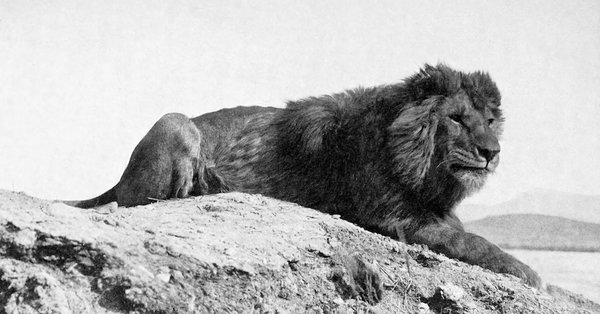
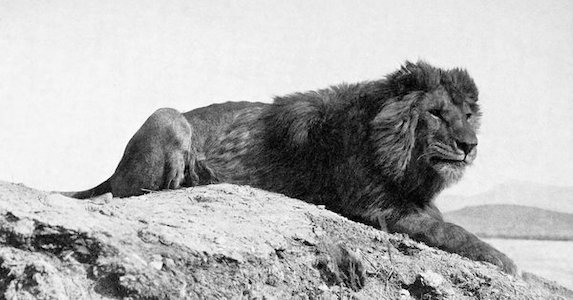
Add facts into carousel and change pictures to the same size pictures

diff --git a/app/src/Hero.js b/app/src/Hero.js
@@ -1,48 +1,48 @@
 import React from 'react';
 import Carousel from 'react-bootstrap/Carousel'
-import theme1 from './images/theme1.jpg' 
-import theme2 from './images/theme2.jpg' 
-import theme3 from './images/theme3.jpg'
+import th1 from './images/th1.jpg' 
+import th2 from './images/th2.jpg'
+import th3 from './images/th3.jpg'  
 
 function Hero() {
   return (
     <div>
       {/* <img src={theme} /> */}
       <Carousel variant="dark">
-        <Carousel.Item>
+        <Carousel.Item className='carousel'>
           <img
             className="d-block w-100"
-            height='600px'
-            src={theme1}
+            src={th1}
             alt="First slide"
           />
           <Carousel.Caption>
-            <h5>First slide label</h5>
-            <p>Nulla vitae elit libero, a pharetra augue mollis interdum.</p>
+            <div className='textbox'>
+              <p>The World Wildlife Organization focuses on saving certain species that help sustain other species. They protect wildlife such as pandas, whales, rhinos, marine turtles, primates, polar bears, and big cats.</p>
+            </div>
           </Carousel.Caption>
         </Carousel.Item>
-        <Carousel.Item>
+        <Carousel.Item className='carousel'>
           <img
             className="d-block w-100"
-            height='600px'
-            src={theme2}
+            src={th2}
             alt="Second slide"
           />
           <Carousel.Caption>
-            <h5>Second slide label</h5>
-            <p>Lorem ipsum dolor sit amet, consectetur adipiscing elit.</p>
+            <div className='textbox'>
+              <p>A species is declared extinct after many years of not being spotted. Because it takes so long to define an entire species as extinct, it is probable that there are many species already gone that we are unaware of.</p>
+            </div>
           </Carousel.Caption>
         </Carousel.Item>
-        <Carousel.Item>
+        <Carousel.Item className='carousel'>
           <img
             className="d-block w-100"
-            height='600px'
-            src={theme3}
+            src={th3}
             alt="Third slide"
           />
           <Carousel.Caption>
-            <h5>Third slide label</h5>
-            <p>Praesent commodo cursus magna, vel scelerisque nisl consectetur.</p>
+            <div className='textbox'>
+              <p>99% of currently threatened species are at risk from human activities, primarily those driving habitat loss, introduction of exotic species, and global warming.</p>
+            </div>
           </Carousel.Caption>
         </Carousel.Item>
       </Carousel>
@@ -52,7 +52,7 @@ function Hero() {
 
 export default Hero;
 
-// theme1 from https://greeniscool.biz/wp-content/uploads/2021/06/what-animals-are-endangered-1024x716.jpg
-// theme2 from https://drb960u7vv58y.cloudfront.net/resize/187946/600/314/image.jpg
-// theme3 from https://images2.minutemediacdn.com/image/upload/c_fill,g_auto,h_1248,w_2220/f_auto,q_auto,w_1100/v1555927862/shape/mentalfloss/3332350-565x566_6.jpg
-// theme4 elephant from https://vetpaw.org/wp-content/uploads/2020/05/vetpaw-news-1080x675.jpg
+// facts from https://www.dosomething.org/us/facts/11-facts-about-endangered-species
+//th1 https://www.google.com/url?sa=i&url=https%3A%2F%2Fwww.nwf.org%2FEducational-Resources%2FWildlife-Guide%2FMammals%2FBlue-Whale&psig=AOvVaw255kb6JnaycJHnLVUVmXrl&ust=1632113202518000&source=images&cd=vfe&ved=0CAkQjRxqFwoTCMizn8-divMCFQAAAAAdAAAAABBC
+//th2 https://www.google.com/url?sa=i&url=https%3A%2F%2Fwww.nwf.org%2FEducational-Resources%2FWildlife-Guide%2FMammals%2FFlorida-Panther&psig=AOvVaw255kb6JnaycJHnLVUVmXrl&ust=1632113202518000&source=images&cd=vfe&ved=0CAkQjRxqFwoTCMizn8-divMCFQAAAAAdAAAAABA9
+//th3 https://www.google.com/url?sa=i&url=https%3A%2F%2Fbristolzoo.org.uk%2Flatest-zoo-news%2Fhow-the-work-of-bristol-zoological-society-is-helping-protect-threatened-species-in-the-zoo-and-around-the-world&psig=AOvVaw255kb6JnaycJHnLVUVmXrl&ust=1632113202518000&source=images&cd=vfe&ved=0CAkQjRxqFwoTCMizn8-divMCFQAAAAAdAAAAABA2

diff --git a/app/src/FilterSort.js b/app/src/FilterSort.js
@@ -1,7 +1,7 @@
 import 'bootstrap/dist/css/bootstrap.min.css';
 
-import { Dropdown, MenuItem, DropdownButton } from "react-bootstrap";
-import React, { useState, useEffect, useCallback } from "react";
+import { Dropdown } from "react-bootstrap";
+import React, { useState } from "react";
 
 function FilterSort({permanentSightings, setSightings}) {
   const [filterNickname, setFilterNickname] = useState('');
@@ -21,11 +21,11 @@ function FilterSort({permanentSightings, setSightings}) {
           <div className='col-sm-3'></div>
           <div className='col-sm-3'>
             <Dropdown>
-              <Dropdown.Toggle variant="success" id="dropdown-basic" className='button'>
+              <Dropdown.Toggle variant="success" id="dropdown-basic" className='button dropdown'>
                 Filter By
               </Dropdown.Toggle>
 
-              <Dropdown.Menu>
+              <Dropdown.Menu className='dropdownMenu'>
                 <Dropdown.Item href="#/action-1">Date</Dropdown.Item>
                 <input placeholder='Nickname' value={filterNickname} onChange= {onChange}></input>
                 <Dropdown.Item href="#/action-3">Location</Dropdown.Item>
@@ -41,8 +41,8 @@ function FilterSort({permanentSightings, setSightings}) {
                 Sort By
               </Dropdown.Toggle>
 
-              <Dropdown.Menu>
-              <Dropdown.Item href="#/action-1">Date</Dropdown.Item>
+              <Dropdown.Menu className='dropdownMenu'>
+                <Dropdown.Item href="#/action-1">Date</Dropdown.Item>
                 <Dropdown.Item href="#/action-2">Nickname</Dropdown.Item>
                 <Dropdown.Item href="#/action-3">Location</Dropdown.Item>
                 <Dropdown.Item href="#/action-1">Health status</Dropdown.Item>

diff --git a/app/src/App.css b/app/src/App.css
@@ -20,10 +20,29 @@ form {
   display: block;
   width: 100%;
 }
+.dropdown:hover .dropdownMenu {
+  display: block;
+}
+.dropdown-menu{
+  margin-top: 0;
+}
+.textbox {
+  border-radius: 30px;
+  background-color: white;
+  opacity: 0.7;
+  padding: 1.5% 1.5%;
+  font-size: 1em;
+}
+/* .textbox h5 {
+  padding
+} */
 /* Extra small devices (phones, 600px and down) */
 @media only screen and (max-width: 600px) {
   .control-label {
     text-align: left;
+  }
+  .button {
+    margin-top: 1%;
   }
 }
 /* Small devices (portrait tablets and large phones, 600px and up) */

diff --git a/app/src/SightingsList.js b/app/src/SightingsList.js
@@ -1,5 +1,5 @@
 import 'bootstrap/dist/css/bootstrap.min.css';
-import React, { useState, useEffect, useCallback } from "react";
+import React, { useState, useEffect } from "react";
 import FilterSort from './FilterSort';
 // function Sighting({sighting}) {
 //   return (
